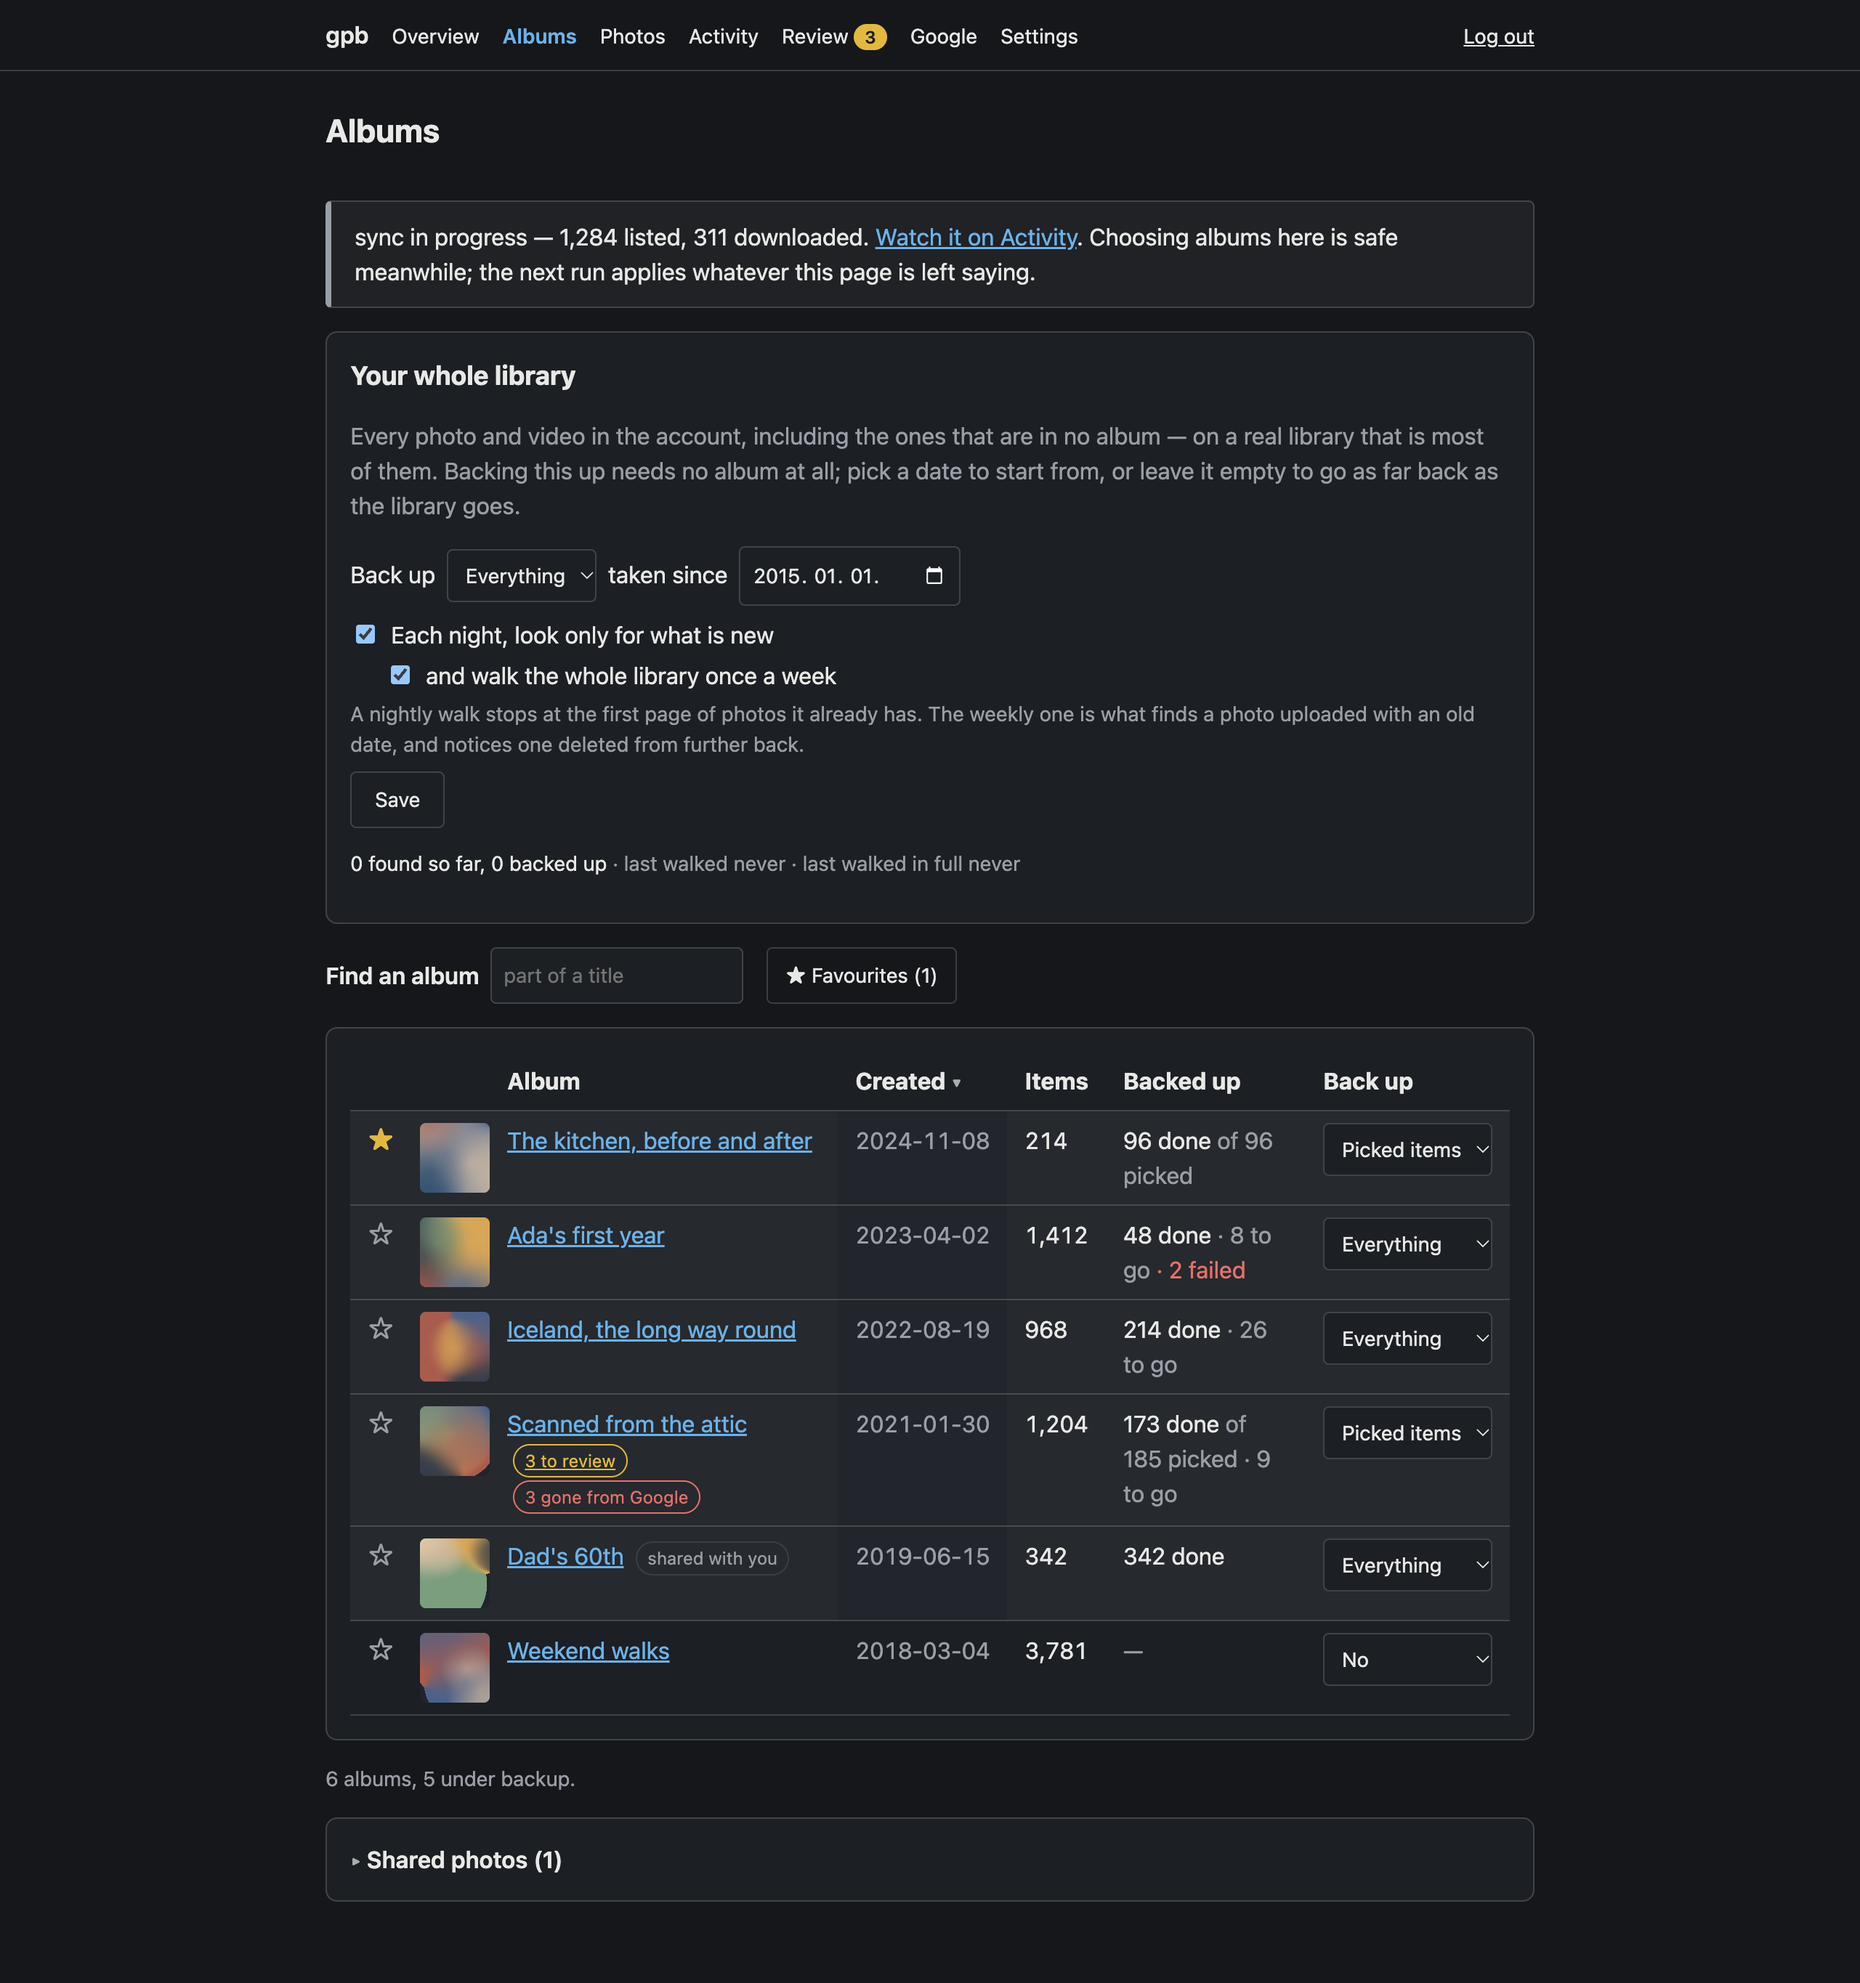
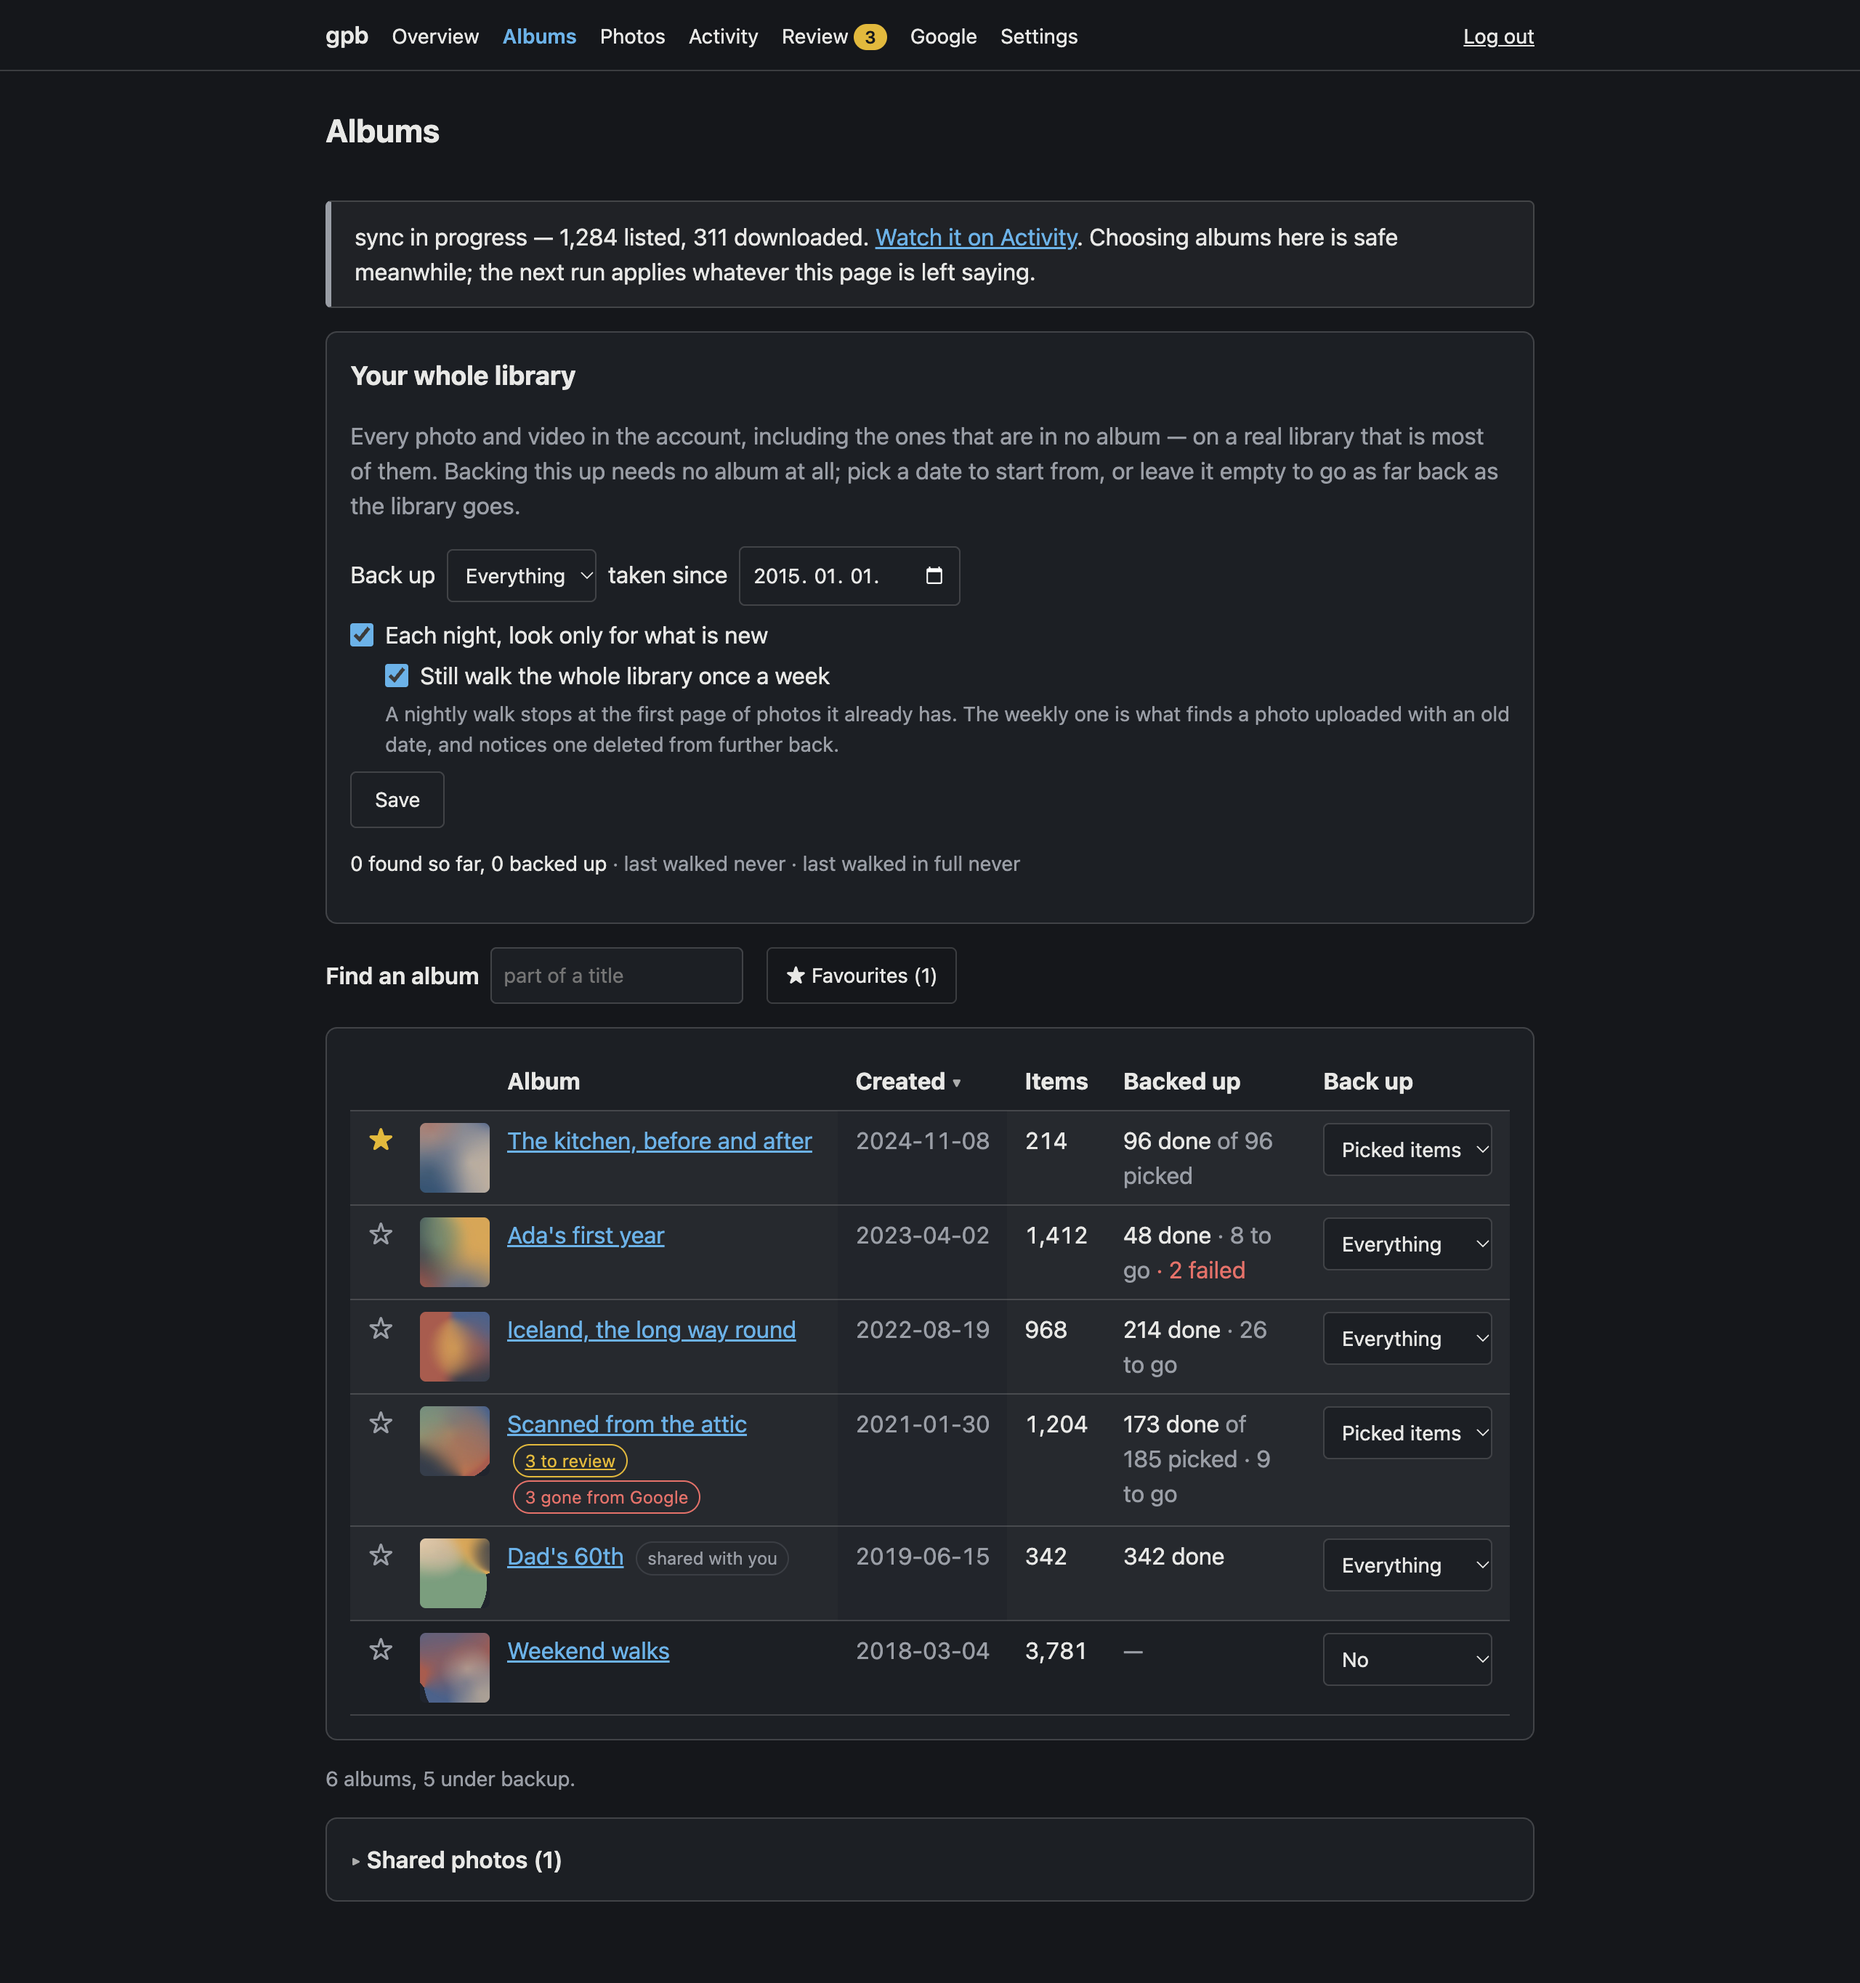
Hang the weekly walk under the box it qualifies
The library's second checkbox was indented by a guess, started in
lower case and stayed live with the first one off, so the pair read as
two odd lines rather than one setting. It now lines up with the first
box's words, says "Still walk the whole library once a week", sits
above the explanation it shares, and fades while the nightly box is
off. It fades rather than being disabled, because a disabled box is
left out of the form and saving would turn the weekly walk off.
Checkboxes take the accent colour, and their focus ring sits closer.

Changed region(s): [[0.1875, 0.3114, 0.7188, 0.4048], [0.75, 0.3425, 0.7812, 0.3736]]

diff --git a/internal/web/templates/albums.html b/internal/web/templates/albums.html
@@ -112,11 +112,13 @@
     <div class="library-form-walk">
       <label><input type="checkbox" name="new_only" value="1"{{if .NewOnly}} checked{{end}}>
         Each night, look only for what is new</label>
-      <label class="library-form-weekly"><input type="checkbox" name="weekly_full_walk" value="1"{{if .WeeklyFullWalk}} checked{{end}}>
-        and walk the whole library once a week</label>
-      <p class="small muted">A nightly walk stops at the first page of photos it already has. The
-        weekly one is what finds a photo uploaded with an old date, and notices one deleted from
-        further back.</p>
+      <div class="library-form-weekly">
+        <label><input type="checkbox" name="weekly_full_walk" value="1"{{if .WeeklyFullWalk}} checked{{end}}>
+          Still walk the whole library once a week</label>
+        <p class="small muted">A nightly walk stops at the first page of photos it already has. The
+          weekly one is what finds a photo uploaded with an old date, and notices one deleted from
+          further back.</p>
+      </div>
     </div>
     <button type="submit">Save</button>
   </form>

diff --git a/internal/web/static/app.css b/internal/web/static/app.css
@@ -280,6 +280,14 @@ input[type="password"] {
   color: inherit;
 }
 
+input[type="checkbox"] {
+  accent-color: var(--accent);
+}
+
+input[type="checkbox"]:focus-visible {
+  outline-offset: 1px;
+}
+
 input[type="password"] {
   display: block;
   width: 100%;
@@ -889,10 +897,14 @@ details.diagnostics summary {
   min-width: 12rem;
 }
 
-.library-form-walk {
-  flex-basis: 100%;
+.library-form-walk,
+.library-form-weekly {
   display: grid;
   gap: var(--s-1);
+}
+
+.library-form-walk {
+  flex-basis: 100%;
 }
 
 .library-form-walk p {
@@ -902,11 +914,23 @@ details.diagnostics summary {
 .library-form-walk label {
   display: flex;
   gap: var(--s-2);
-  align-items: baseline;
+  align-items: start;
+}
+
+.library-form-walk input {
+  font: inherit;
+  flex-shrink: 0;
+  width: 1rem;
+  height: 1rem;
+  margin: calc((1lh - 1rem) / 2) 0 0;
 }
 
 .library-form-weekly {
-  margin-left: var(--s-5);
+  margin-left: calc(1rem + var(--s-2));
+}
+
+.library-form-walk:has([name="new_only"]:not(:checked)) .library-form-weekly {
+  opacity: 0.5;
 }
 
 .crumbs {

diff --git a/internal/web/albumsbrowser_test.go b/internal/web/albumsbrowser_test.go
@@ -94,3 +94,52 @@ func TestTheAlbumsPageStarsARowAndGoesOnFindingIt(t *testing.T) {
 		t.Errorf("the reloaded list reads %v, want the starred album at the top of it", order)
 	}
 }
+
+// The weekly walk is a qualification of the box above it, and reads as one only when it starts
+// where that box's words do and fades while that box is off. Both are layout, which the HTML
+// alone cannot show. It fades rather than being disabled: a disabled box is left out of the form,
+// and saving with the nightly box off would quietly turn the weekly walk off with it.
+func TestTheAlbumsPageHangsTheWeeklyWalkUnderTheBoxItQualifies(t *testing.T) {
+	if os.Getenv("GPB_BROWSER") == "" {
+		t.Skip("set GPB_BROWSER=1 to drive a real browser")
+	}
+
+	server, _ := testServer(t)
+	site := httptest.NewServer(server.Handler())
+	defer site.Close()
+
+	browser, done := openBrowser(t)
+	defer done()
+	logIn(t, browser, site.URL)
+
+	const offsetFromTheNightlyBoxsWords = `(() => {
+		const nightly = document.querySelector('input[name="new_only"]');
+		const words = document.createRange();
+		words.selectNodeContents(nightly.nextSibling);
+		const weekly = document.querySelector('input[name="weekly_full_walk"]');
+		return weekly.getBoundingClientRect().left - words.getBoundingClientRect().left;
+	})()`
+	const weeklyOpacity = `Number(getComputedStyle(document.querySelector('.library-form-weekly')).opacity)`
+
+	var offset, whileOff, whileOn float64
+	if err := chromedp.Run(browser,
+		chromedp.Navigate(site.URL+"/albums"),
+		chromedp.WaitVisible(`input[name="new_only"]`, chromedp.ByQuery),
+		chromedp.Evaluate(offsetFromTheNightlyBoxsWords, &offset),
+		chromedp.Evaluate(weeklyOpacity, &whileOff),
+		chromedp.Click(`input[name="new_only"]`, chromedp.ByQuery),
+		chromedp.Evaluate(weeklyOpacity, &whileOn),
+	); err != nil {
+		t.Fatalf("measuring the library form: %v", err)
+	}
+
+	if offset < -1 || offset > 1 {
+		t.Errorf("the weekly box starts %.1fpx from the words of the box it qualifies", offset)
+	}
+	if whileOff >= 1 {
+		t.Error("the weekly walk is drawn at full strength while the nightly box it qualifies is off")
+	}
+	if whileOn != 1 {
+		t.Errorf("with the nightly box ticked the weekly walk is still faded, at opacity %v", whileOn)
+	}
+}
